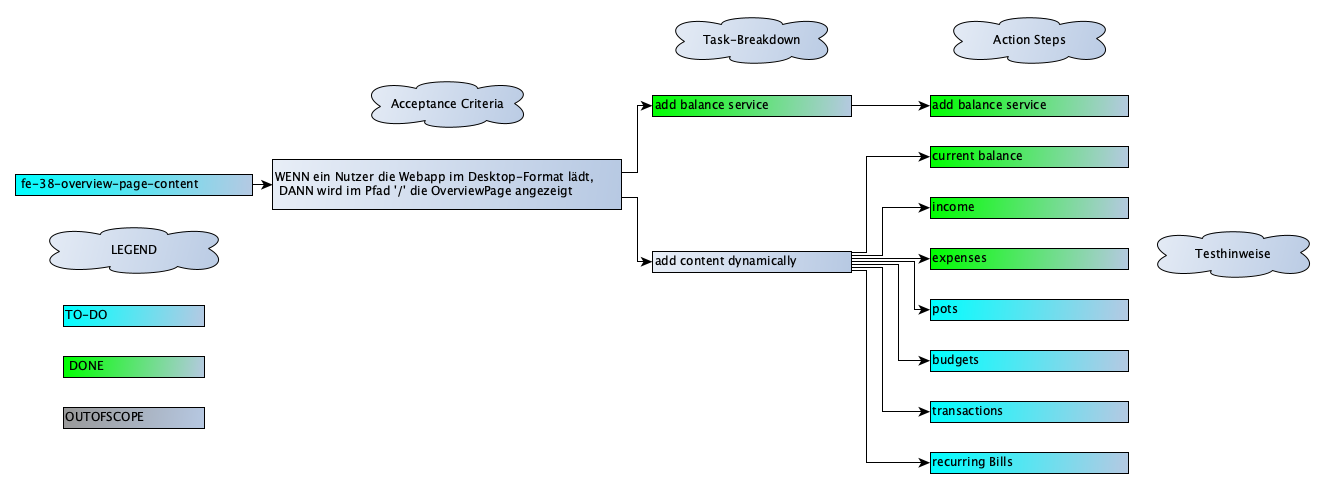
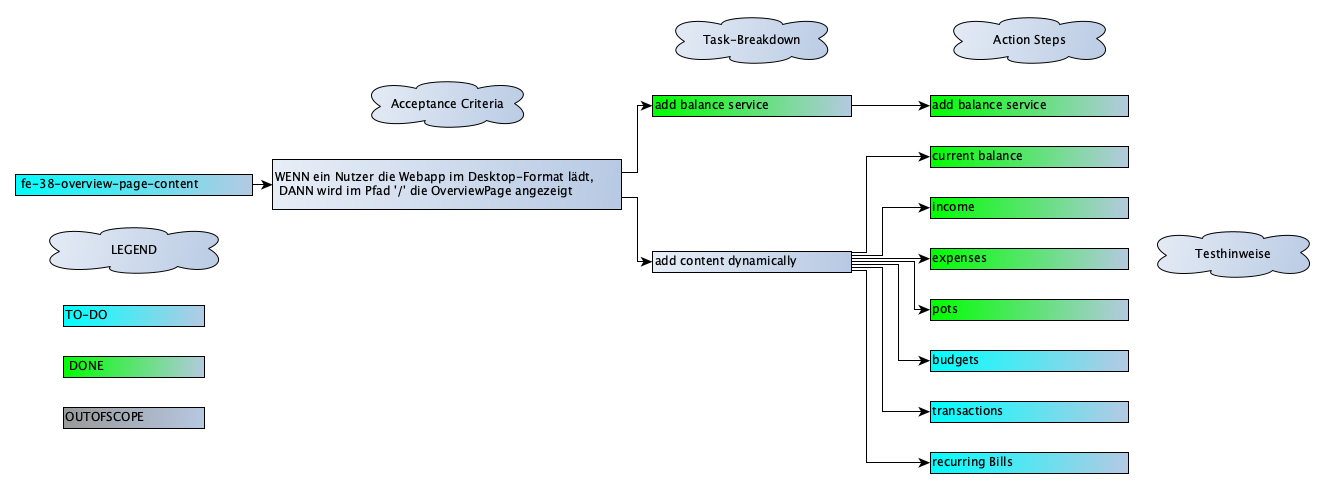
fe-38 add pot logic

Changed region(s): [[0.6741, 0.6135, 0.858, 0.6748]]

diff --git a/frontend/src/components/overview/pots/PotsSummary.spec.tsx b/frontend/src/components/overview/pots/PotsSummary.spec.tsx
@@ -2,8 +2,12 @@ import { render, screen } from '@testing-library/react';
 import { PotsSummary } from './PotsSummary';
 
 describe('PotsSummary', () => {
+  const potSum: number = 100;
+  const testProps = {
+    potSum,
+  };
   it('renders div overviewPotsSummary', () => {
-    const { container } = render(<PotsSummary />);
+    const { container } = render(<PotsSummary {...testProps} />);
 
     const htmlElement = container.querySelector('.overviewPotsSummary');
 
@@ -11,7 +15,7 @@ describe('PotsSummary', () => {
   });
 
   it('renders the pot icon', () => {
-    render(<PotsSummary />);
+    render(<PotsSummary {...testProps} />);
 
     const imgElement: HTMLElement = screen.getByAltText('pot icon');
 
@@ -19,7 +23,7 @@ describe('PotsSummary', () => {
   });
 
   it('renders div overviewPotsSummaryContent', () => {
-    const { container } = render(<PotsSummary />);
+    const { container } = render(<PotsSummary {...testProps} />);
 
     const htmlElement = container.querySelector('.overviewPotsSummaryContent');
 
@@ -27,7 +31,7 @@ describe('PotsSummary', () => {
   });
 
   it('renders the label overviewPotsSummaryContentTitle', () => {
-    const { container } = render(<PotsSummary />);
+    const { container } = render(<PotsSummary {...testProps} />);
 
     const htmlElement = container.querySelector('.overviewPotsSummaryContentTitle');
 
@@ -35,11 +39,12 @@ describe('PotsSummary', () => {
     expect(htmlElement).toHaveTextContent('Total Saved');
   });
 
-  it('renders the label div overviewPotsSummaryContentValue', () => {
-    const { container } = render(<PotsSummary />);
+  it('renders the label div overviewPotsSummaryContentValue with passed potSum', () => {
+    const { container } = render(<PotsSummary {...testProps} />);
 
     const htmlElement = container.querySelector('.overviewPotsSummaryContentValue');
 
     expect(htmlElement).toBeInTheDocument();
+    expect(htmlElement).toHaveTextContent(`${potSum}`);
   });
 });

diff --git a/frontend/src/components/overview/pots/OverviewPots.tsx b/frontend/src/components/overview/pots/OverviewPots.tsx
@@ -2,22 +2,37 @@ import './OverviewPots.scss';
 import { OverviewHeader } from '../OverviewHeader';
 import { ValueBox } from '../ValueBox';
 import { PotsSummary } from './PotsSummary';
+import { getPots } from '../../../globals/services/PotService';
+import { EPPot } from '../../../types/EPPot';
 
 export function OverviewPots() {
+  const pots: EPPot[] = getPots();
+  let potSum: number = 0;
+  pots.forEach((pot) => {
+    potSum = potSum + pot.total;
+  });
   return (
     <>
       <div className="overviewPots" data-testid="overview-pots">
         <OverviewHeader title="Pots" linkText="See Details" linkTarget="/pots" />
         <div className="overviewPotsContent">
-          <PotsSummary />
+          <PotsSummary potSum={potSum} />
           <div className="overviewPotsValues">
             <div className="overviewPotsValuesRow">
-              <ValueBox title="Savings" value={159} color="dark-green" />
-              <ValueBox title="Gift" value={40} color="light-blue" />
+              {pots[0] && (
+                <ValueBox title={pots[0].name} value={pots[0].total} color={pots[0].color} />
+              )}
+              {pots[1] && (
+                <ValueBox title={pots[1].name} value={pots[1].total} color={pots[1].color} />
+              )}
             </div>
             <div className="overviewPotsValuesRow">
-              <ValueBox title="Concert Ticket" value={110} color="dark-grey" />
-              <ValueBox title="New Laptop" value={10} color="beige" />
+              {pots[2] && (
+                <ValueBox title={pots[2].name} value={pots[2].total} color={pots[2].color} />
+              )}
+              {pots[3] && (
+                <ValueBox title={pots[3].name} value={pots[3].total} color={pots[3].color} />
+              )}
             </div>
           </div>
         </div>

diff --git a/frontend/src/components/overview/pots/PotsSummary.tsx b/frontend/src/components/overview/pots/PotsSummary.tsx
@@ -1,6 +1,8 @@
 import './PotsSummary.scss';
+import { PotsSummaryProps } from '../../../types/PotsSummaryProps';
 
-export function PotsSummary() {
+export function PotsSummary({ potSum }: PotsSummaryProps) {
+  const potFormatted = potSum.toFixed(0);
   return (
     <>
       <div className="overviewPotsSummary" data-testid="pots-summary">
@@ -12,7 +14,7 @@ export function PotsSummary() {
         />
         <div className="overviewPotsSummaryContent">
           <label className="overviewPotsSummaryContentTitle">Total Saved</label>
-          <label className="overviewPotsSummaryContentValue">$850</label>
+          <label className="overviewPotsSummaryContentValue">${potFormatted}</label>
         </div>
       </div>
     </>

diff --git a/frontend/src/fixtures/MockedPots.ts b/frontend/src/fixtures/MockedPots.ts
@@ -7,3 +7,30 @@ export const pot: EPPot = {
   total: 159.0,
   color: ColorNameEnum.DARKGREEN,
 };
+
+export const pots: EPPot[] = [
+  {
+    name: 'Savings',
+    target: 2000.0,
+    total: 159.0,
+    color: ColorNameEnum.DARKGREEN,
+  },
+  {
+    name: 'Holiday',
+    target: 1000.0,
+    total: 100.0,
+    color: ColorNameEnum.LIGHTBLUE,
+  },
+  {
+    name: 'Laptop',
+    target: 200.0,
+    total: 10.0,
+    color: ColorNameEnum.PURPLE,
+  },
+  {
+    name: 'Handy',
+    target: 20.0,
+    total: 15.0,
+    color: ColorNameEnum.DARKGREY,
+  },
+];

diff --git a/frontend/src/Types/PotsSummaryProps.ts b/frontend/src/Types/PotsSummaryProps.ts
@@ -1,0 +1,3 @@
+export interface PotsSummaryProps {
+  potSum: number;
+}
